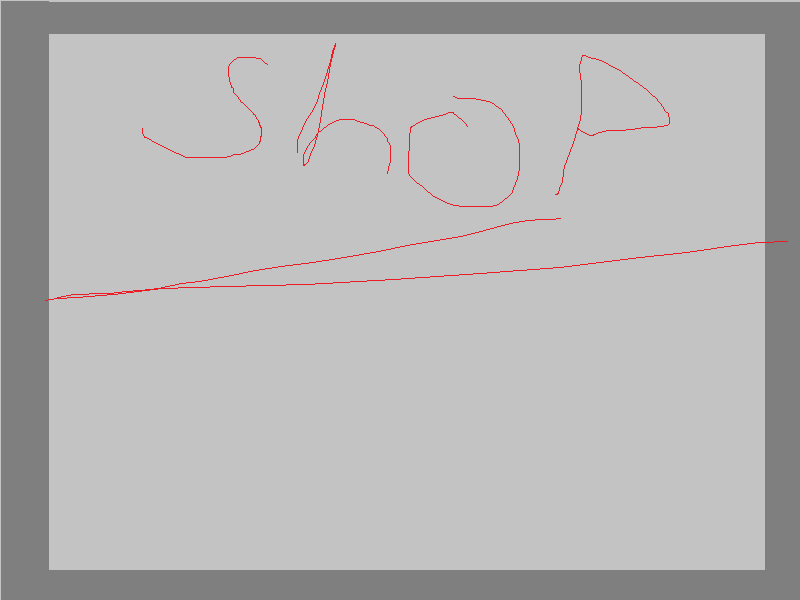
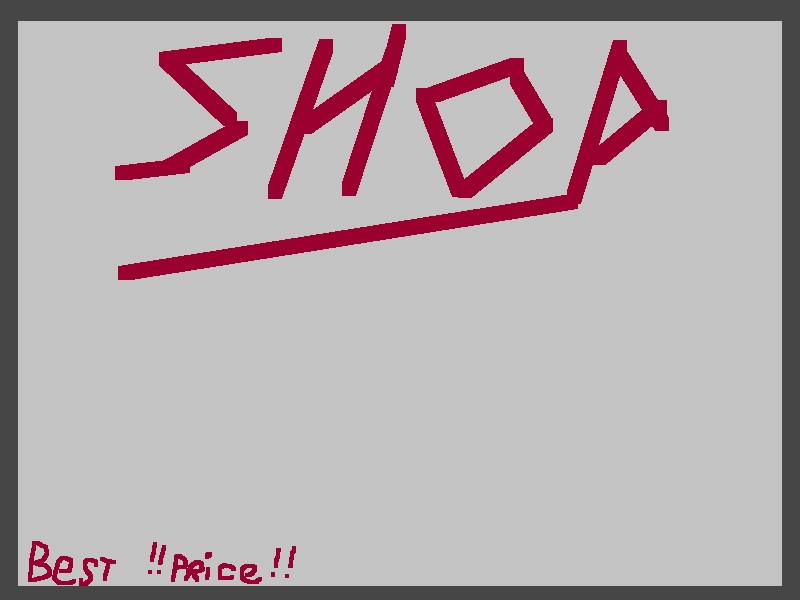
shop gui, teleporty, zmeny pepy u jezera

Changed region(s): [[0.0, 0.0, 1.0, 1.0]]

diff --git a/hra.py b/hra.py
@@ -25,7 +25,22 @@ prava_zona = 400
 
 pocitadlo = 0
 
-inventar = False 
+okno = pygame.display.set_mode(rozliseni_okna)
+clock = pygame.time.Clock()
+
+#BARVICKY
+zluta = (205, 235, 98)
+cerna = (0, 0, 0)
+bila = (255, 255, 255)
+seda = (94, 94, 94)
+
+
+#inventar
+inventar = False
+buy = pygame.draw.rect(okno, (seda), (120, 335, 200, 100))
+sell = pygame.draw.rect(okno, (seda), (480, 335, 200, 100))
+leave = pygame.draw.rect(okno, (seda), (670, 520, 100, 50))
+shop_mode = None # nic / buy / sell
 
 #predmety
 coins = 0
@@ -35,15 +50,8 @@ kapr = 0
 
 
 
-#BARVICKY
-zluta = (205, 235, 98)
-cerna = (0, 0, 0)
-bila = (255, 255, 255)
-seda = (94, 94, 94)
 
 
-okno = pygame.display.set_mode(rozliseni_okna)
-clock = pygame.time.Clock()
 
 # obrazky levelu
 venek = pygame.image.load("venek.png")
@@ -71,6 +79,9 @@ TEXTURApepa_1 = pygame.transform.scale(pepa_1, (hrac_velikostX, hrac_velikostY))
 pepa_2 = pygame.image.load("pepa_levo_2.png")
 TEXTURApepa_2 = pygame.transform.scale(pepa_2, (hrac_velikostX, hrac_velikostY))
 
+pepa_lod = pygame.image.load("pepa_beznohy.png")
+TEXTURApepa_lod = pygame.transform.scale(pepa_lod, (hrac_velikostX, hrac_velikostY))
+
 #obrazek inv
 inv = pygame.image.load("inventar.png")
 TEXTURAinv = pygame.transform.scale(inv, (500, 300))
@@ -97,6 +108,9 @@ while True:
     hrac_obrazovka_x = hrac_pozice_x - kamera_x
     
     stisknuto = pygame.key.get_pressed()
+    mys_pozice = pygame.mouse.get_pos()
+    klik = pygame.mouse.get_pressed()
+
     
     # UPRAVA HRY MEZI FRAMY
     
@@ -106,6 +120,8 @@ while True:
     faktor_zpozdeni = 8
     
     #animace pepy pri chuzi
+    
+    
     if stisknuto[pygame.K_d]:
         if pocitadlo % (pocet_snimku * faktor_zpozdeni) < faktor_zpozdeni:
             aktualni_sprite = TEXTURApepa1
@@ -161,7 +177,7 @@ while True:
             
             pozadi_sirka = pozadi.get_width()
             pozadi_vyska = pozadi.get_height()
-            hrac_pozice_x = 50
+            hrac_pozice_x = 370
             hrac_pozice_y = 320
             hrac_velikostX= 110
             hrac_velikostY = 170
@@ -169,22 +185,24 @@ while True:
         
         stojim_u_shopu = hrac_pozice_x > 750 and hrac_pozice_x < 1020
         
+        
         if stojim_u_shopu and stisknuto[pygame.K_e]:
             pozadi = shop
+            hrac_rychlost = 0
             
             pozadi_sirka = pozadi.get_width()
             pozadi_vyska = pozadi.get_height()
         
 
             
-            
         
     #JEZERO
     if pozadi == jezero:
-        if hrac_pozice_x < 0:
-            hrac_pozice_x = 0
-        if hrac_pozice_x > pozadi_sirka - hrac_velikostX:
-            hrac_pozice_x = pozadi_sirka - hrac_velikostX
+        aktualni_sprite = TEXTURApepa_lod
+        if hrac_pozice_x < 330:
+            hrac_pozice_x = 330
+        if hrac_pozice_x > 422:
+            hrac_pozice_x = 422
     
             
         if hrac_obrazovka_x > prava_zona:
@@ -196,7 +214,22 @@ while True:
             kamera_x = 0
         if kamera_x > pozadi_sirka - okno_sirka:
             kamera_x = pozadi_sirka - okno_sirka 
-    
+        
+        stojim_u_leva_lod = hrac_pozice_x > 329 and hrac_pozice_x < 350
+        
+        if stojim_u_leva_lod and stisknuto[pygame.K_e]:
+            pozadi = venek
+            pozadi_sirka = pozadi.get_width()
+            pozadi_vyska = pozadi.get_height()
+
+            hrac_pozice_x = 1312
+            hrac_pozice_y = 315
+
+            hrac_velikostX = 110
+            hrac_velikostY = 170
+            hrac_rychlost = 4
+
+            kamera_x = 0
 
     # VYKRESLENI PRVKU HRY
     
@@ -216,16 +249,71 @@ while True:
     if pozadi == venek and stojim_u_shopu:
         pygame.draw.rect(okno, (bila), (info_shop_obrazovka_x, 360, 50, 50))
         okno.blit(E_text, (info_shop_obrazovka_x + (50/2 - E_text.get_size()[0] / 2), 372))
+    if pozadi == jezero and stojim_u_leva_lod:
+        pygame.draw.rect(okno, (bila), (22, 340, 50, 50))
+        okno.blit(E_text, (info_jezero_obrazovka_x + (50/2 - E_text.get_size()[0] / 2) - 700, 352))
+
 
     if pozadi != shop:
         okno.blit(aktualni_sprite, (hrac_obrazovka_x, hrac_pozice_y))
     
         if inventar:
             okno.blit(TEXTURAinv, ( 350 - (500 - hrac_velikostX) / 2, 10,))
+    
+    if pozadi == shop:
+        pygame.draw.rect(okno, seda, buy)
+        pygame.draw.rect(okno, seda, sell)
+        pygame.draw.rect(okno, seda, leave)
 
+    
+    if pozadi == shop and (buy.collidepoint(mys_pozice) or sell.collidepoint(mys_pozice) or leave.collidepoint(mys_pozice)):
+        pygame.mouse.set_cursor(pygame.SYSTEM_CURSOR_HAND)
+    else:
+        pygame.mouse.set_cursor(pygame.SYSTEM_CURSOR_ARROW)
 
+    if pozadi == shop and shop_mode is None: 
+        if buy.collidepoint(mys_pozice) and klik[0]:
+            shop_mode = "buy"
         
-    print(kamera_x, hrac_pozice_x)
+        if sell.collidepoint(mys_pozice) and klik[0]:
+            shop_mode = "sell"
+        
+        if leave.collidepoint(mys_pozice) and klik[0]:
+            pozadi = venek
+            shop_mode = None
+            pozadi_sirka = pozadi.get_width()
+            pozadi_vyska = pozadi.get_height()
+
+            hrac_pozice_x = 888
+            hrac_pozice_y = 315
+
+            hrac_velikostX = 110
+            hrac_velikostY = 170
+            hrac_rychlost = 4
+
+            kamera_x = 0
+
+
+    if pozadi == shop and shop_mode is None:
+        pygame.draw.rect(okno, seda, buy)
+        pygame.draw.rect(okno, seda, sell)
+        pygame.draw.rect(okno, seda, leave)
+
+
+    if pozadi == shop and shop_mode == "buy":
+        # tady později itemy
+        pass
+
+    if pozadi == shop and shop_mode == "sell":
+        # tady ryby
+        pass
+    
+    if pozadi == shop and stisknuto[pygame.K_ESCAPE]:
+        shop_mode = None
+    
+
+    print(shop_mode)
+    #print(kamera_x, hrac_pozice_x)
     
     clock.tick(60)
     pygame.display.update()
